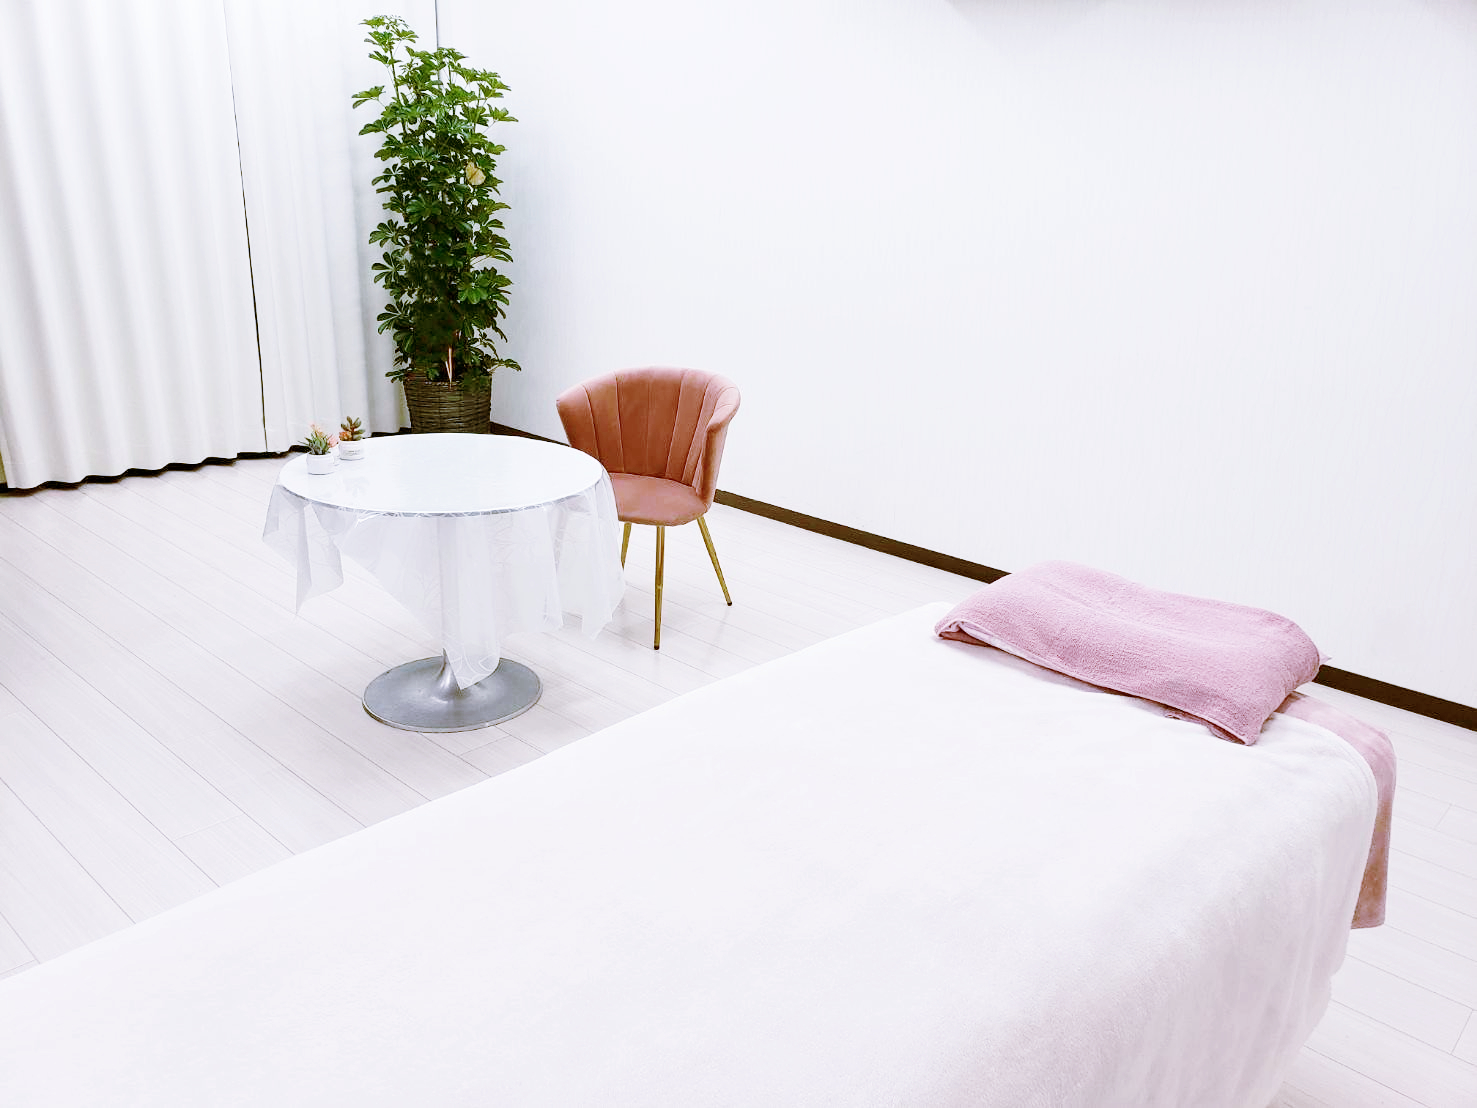
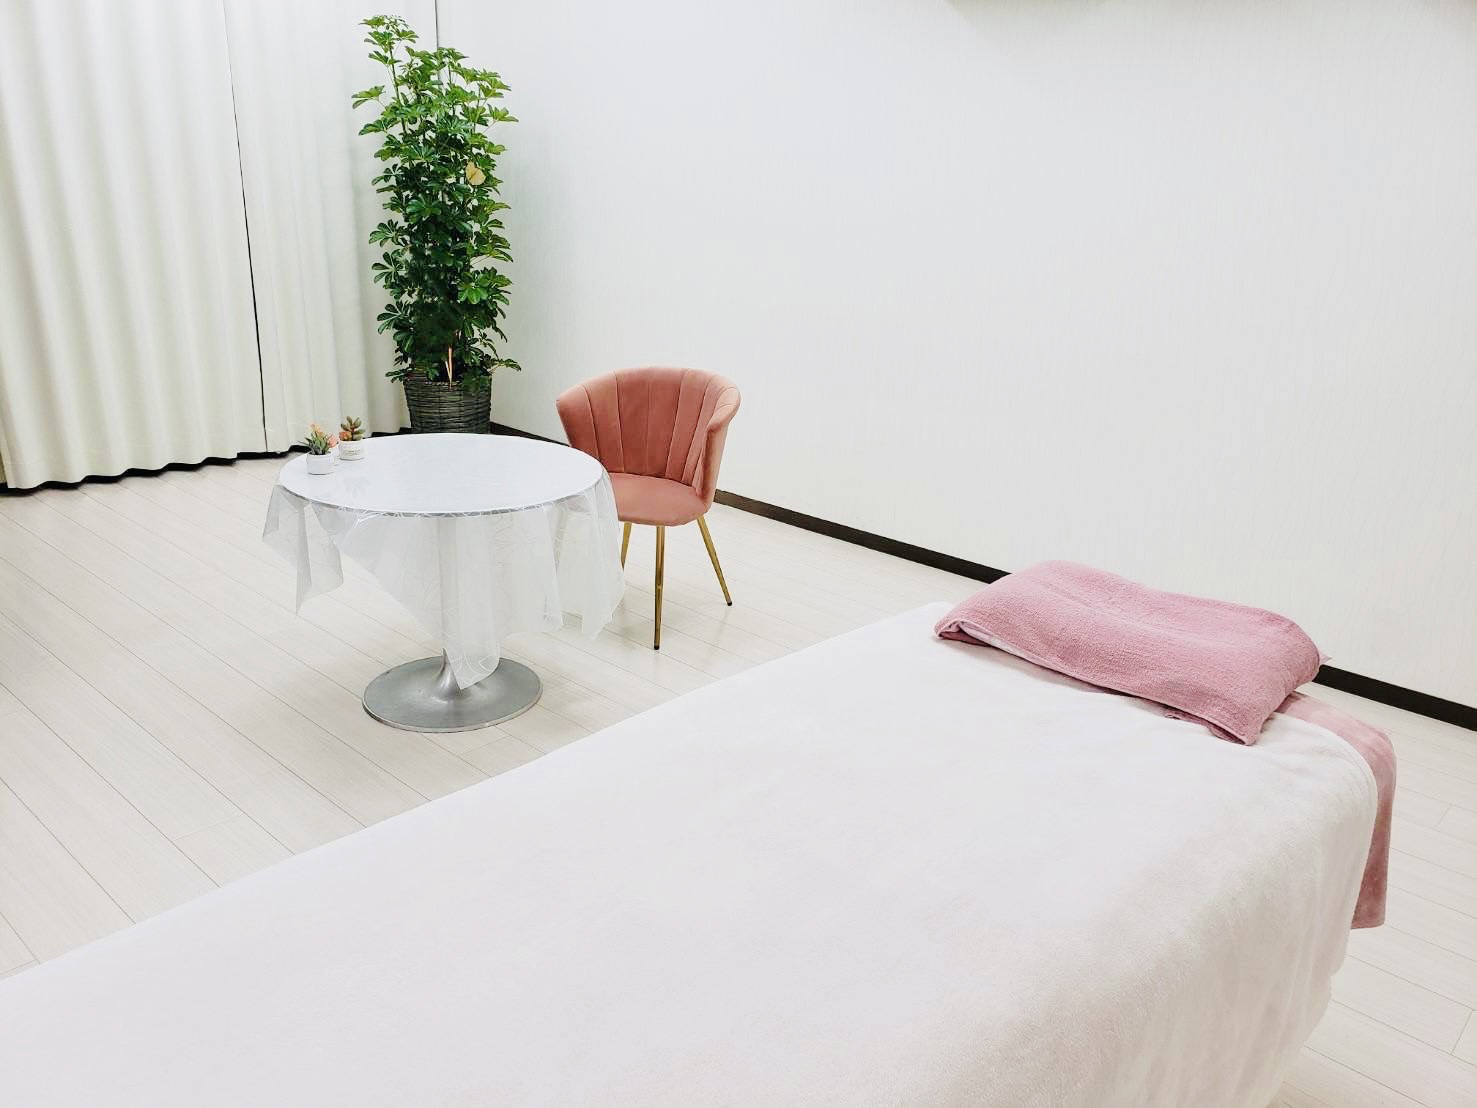
ローダーの写真を差し替えた

diff --git a/src/components/container/ImageSlider.jsx b/src/components/container/ImageSlider.jsx
@@ -5,7 +5,7 @@ import "slick-carousel/slick/slick.css";
 import "slick-carousel/slick/slick-theme.css";
 
 import Img1 from "../../public/Salon_scene.jpg";
-import Img2 from "../../public/LINE_ALBUM_clinic_220301_1.jpg";
+import Img2 from "../../public/roader1.jpg";
 import Img3 from "../../public/LINE_ALBUM_clinic_220301_7.jpg";
 
 export const ImageSlider = () => {
